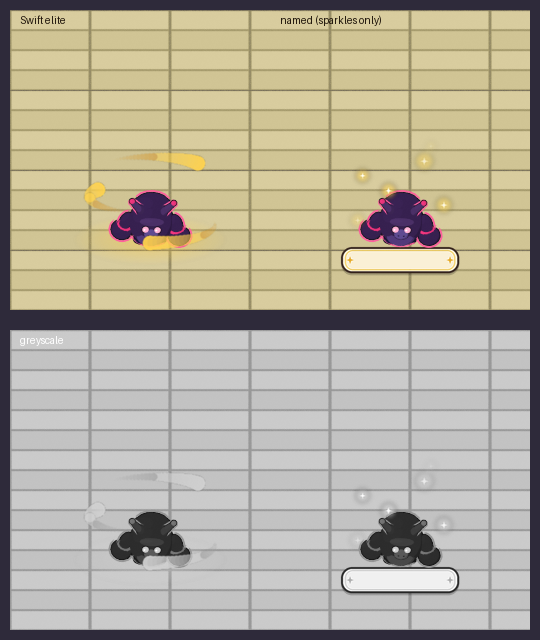
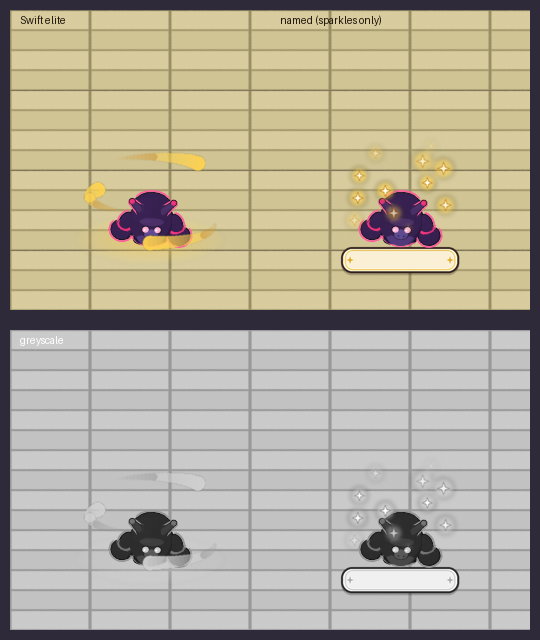
M7-N1 batch 2: previews, delivery note, notes (incl. Tier 2 aura reuse line)

diff --git a/incoming-art/named-monster/DELIVERY_NOTE.md b/incoming-art/named-monster/DELIVERY_NOTE.md
@@ -1,24 +1,20 @@
-# Delivery Note: [SAMPLES] M7-N1 named monster, 2026-10-24
+# Delivery Note: M7-N1 named monster, batch 2, 2026-10-24
 
-**ITEM:** M7-N1 named monster (approved), art per `drafts/planning/named-monster-proposal.md` (PR #33). Sample step (Jay's rule of 3 samples before a big batch). Stopped here for Jay's OK.
+**ITEM:** M7-N1 follow-up after the samples (PR #48): denser sparkles, a name tag above the head, final Monster Journal parts, Home Dojo stickers.
 
-**WHAT** (`incoming-art/named-monster/`, `sprites/static.json`)
-1. **Sparkles on a tier-1 enemy:** `named-sparkle_front` (only the gold drifting sparkles, no Swift swooshes, no ground glow, no dome). 256 master at (128, 210), plus pre-scaled sheets for brute, swarmer, shield (same frame + anchor as the enemy; the Floor Keeper is never named). 8 frames @ 10 fps, slow firefly drift that fades in and out.
-   - `preview/sample-1-named-room.gif`: named brute in a Sunrise Garden room (the plate fades out at the end, as in the proposal's 3 s rule).
-   - `preview/sample-1-greyscale-check.png`: Swift elite vs named, colour + greyscale.
-2. **Name plate:** `name-plate.png`, BLANK cream plate with dark outline, goes under the feet. Nine-slice + text area in static.json; the game renders the name. `preview/sample-2-name-plate.png` (3x, cream + grey floors, phone scale).
-3. **Monster Journal page mock:** `preview/sample-3-journal-page-mock.png`: frame and layout only: one met card (drawing + stamp graphic), two unmet "?" silhouettes with "Keep exploring!" (wording from the proposal). All other text is marked **[PLACEHOLDER]** in red. Preview only, not a sprite yet.
-4. **Rough tells:** `tell-stamp-dust` (brute stamp), `tell-dash-trail` (swarmer dash path, tileable), `tell-shield-tap` (shield taps). See `preview/tells-rough.png`. First passes only.
-- No names in the art, nothing above heads, soft and friendly shapes. Preview labels use DejaVu/Pillow fonts for review only.
+**WHAT** (`incoming-art/named-monster/`, all in `sprites/static.json`)
+1. **Denser sparkles:** 12 instead of 6, a little bigger, each with a thin amber rim so it holds up in greyscale on light floors. Same files (`named-sparkle_front`, master + brute/swarmer/shield). `preview/b2-greyscale-before-after.png`: normal / Swift / named before / named after, colour + greyscale, with the plate faded.
+2. **Name tag:** `name-tag.png`, a slim 64 x 14 cream plate with a gold edge (not a circle badge), BLANK. It fades in once the under-feet plate has faded. static.json gives the nine-slice, text area and `headOffsetPx` per enemy. `preview/b2-named-room-tag.gif` (plate -> fades -> tag), `preview/b2-name-tag-closeup.png`.
+3. **Monster Journal (final art):** `sprites/journal/`: `page-frame` (390 x 600 phone page), `title-banner` (blank; the game writes "Monster Journal"), `card-met`, `card-unmet` (with the "?"), `stamp` (gold scalloped star seal), `silhouette-<enemy>` (unmet look: flat warm grey + soft inner light). The layout slots are in static.json. `preview/b2-journal-page.png` shows the title and marks every other text as [PLACEHOLDER]; `preview/b2-journal-parts.png`.
+4. **Home Dojo stickers (SAMPLES):** `sprites/sticker/sticker-{brute,swarmer,shield}.png`. 80 x 80 die-cut wall stickers (one wall tile, same rules as home-dojo wall items): the creature with gold sparkles. `preview/b2-stickers.png`.
+- `source/make_named_b2.py` (run after `make_named.py`) rebuilds batch 2.
 
 **WHY**
-- Gold swooshes already mean Swift; sparkles + a plate under the feet read as "special" instead of "fast", also in greyscale (the plate and the swoosh-free shape do most of the work there).
+- The proposal says the plate fades after 3 s; with denser sparkles plus a small tag the monster stays clearly "special" afterwards, without a big badge.
 
 **DECIDE (Jay)**
-1. Sparkle density/brightness: OK, or brighter so the sparkles alone (without the plate, after it fades) read more in greyscale?
-2. Plate: proposal says "fades after 3 s". Should anything stay visible after that besides the sparkles? (Nothing drawn above heads.)
-3. Journal: page title text, card layout (3 per tier on one screen), and the stamp design (gold star seal) - final words come from the Content Designer.
-4. Monster names (proposal's Tier 2 examples) are not used anywhere in the art; the Content Designer writes the final names.
-5. The Home Dojo decoration sticker from the proposal is not drawn yet.
+1. The name tag is the **only thing drawn above any head** in the game. OK, given the no-badges rule? (Slim and low-profile on purpose.)
+2. Stickers: one per named enemy type, the creature with sparkles. Pick a style, or ask for different designs.
+3. Journal wording (fact text, page text) comes from the Content Designer; only "Monster Journal", "?" and "Keep exploring!" are used.
 
-**NEXT:** after OK: final tells, full sparkle set per tier, journal frame + "?" silhouettes + stamp as game sprites, and notes for Claude Code.
+**NEXT:** after OK: the final tells and the per-tier set, plus wiring notes for Claude Code.

diff --git a/incoming-art/NOTES-FOR-CLAUDE-CODE.md b/incoming-art/NOTES-FOR-CLAUDE-CODE.md
@@ -233,6 +233,13 @@ Drawing order is the `order` field (the Batch 1 layers moved up by one because `
   - Layer order: floor -> tether + foot glows -> red danger circle -> aura back -> enemies -> aura front. Blue never covers the red circle. Range/count/damage rules come from the planning doc, not the art.
 - `aura-sparkle-gold` is a PROPOSAL only (possible rare named monster). Do not wire.
 
+## Tier 2 enemies and elite auras
+- If Tier 2 (Sunrise Garden) reuses the Tier 1 creatures, the existing elite aura sheets in `incoming-art/elite-auras/sprites/<enemy>/` (Swift, Guarding, Guarding foot glow) apply as-is.
+
+## M7-N1 named monster, `incoming-art/named-monster/sprites/static.json` [NEW, batch 2]
+- Draw order: name-plate (under the feet, fades after 3 s) -> enemy -> named-sparkle. Once the plate is gone, `name-tag` fades in above the head at `headOffsetPx[enemy]` (the only thing above any head). The game renders all names and text.
+- Journal parts in `journal/` with layout slots in static.json; stickers in `sticker/` (samples, wall items).
+
 ## Open items in one place
 
 1. The player frame changed to 128 × 160 with the anchor at (64, 136.96). It applies to `player-character/` and `player-custom/`.

diff --git a/incoming-art/named-monster/README.md b/incoming-art/named-monster/README.md
@@ -1,2 +1,2 @@
-# Named monster (M7-N1) - SAMPLES
-Rebuild from `incoming-art/`: `python3 named-monster/source/make_named.py` (Pillow). Draw order: plate (under the feet) -> enemy -> sparkles. See DELIVERY_NOTE.md. Not wired until Jay OKs.
+# Named monster (M7-N1)
+Rebuild from `incoming-art/`: `python3 named-monster/source/make_named.py` (Pillow). Draw order: plate (under the feet) -> enemy -> sparkles. See DELIVERY_NOTE.md. Batch 2: `python3 named-monster/source/make_named_b2.py` (after make_named.py). Name tag above the head only after the plate fades.
